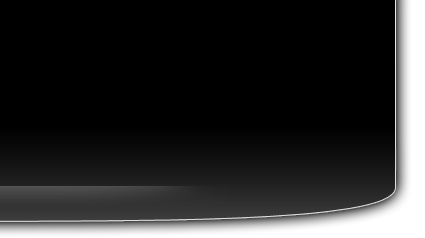
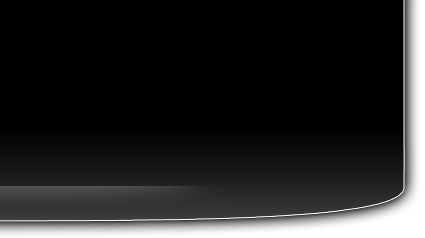
image fixes

diff --git a/public/index.css b/public/index.css
@@ -16,8 +16,8 @@ body
 #close
 {
 	position: fixed;
-	right: 40px;
-	top: 25px;
+	right: 30px;
+	top: 30px;
 	height: 15px;
 	width: 15px;
 	text-shadow: rgb(0, 0, 0) 1px 1px 5px;
@@ -36,7 +36,7 @@ html
 #mediaInformation
 {
 	position: fixed;
-	top: 23px;
+	top: 28px;
 	left: 100px;
 	height: 18px;
 	right: 100px;
@@ -477,7 +477,7 @@ input[type=password]:focus {
 	position: fixed;
 	top: 0px;
 	right: 0px;
-	width: 425px;
+	width: 420px;
 	height: 360px;
 	
 	background-image: url('images/player/ne.png');
@@ -488,7 +488,7 @@ input[type=password]:focus {
 	position: fixed;
 	top: 0px;
 	left: 0px;	
-	width: 424px;
+	width: 420px;
 	height: 361px;
 	
 	background-image: url('images/player/nw.png');
@@ -499,7 +499,7 @@ input[type=password]:focus {
 	position: fixed;
 	bottom: 3px;
 	right: 0px;
-	width: 425px;
+	width: 420px;
 	height: 235px;
 	
 	background-image: url('images/player/se.png');
@@ -510,7 +510,7 @@ input[type=password]:focus {
 	position: fixed;
 	bottom: 0px;
 	left: 1px;
-	width: 425px;
+	width: 419px;
 	height: 237px;
 	
 	background-image: url('images/player/sw.png');

diff --git a/public/index.html b/public/index.html
@@ -19,10 +19,10 @@
 
 		<div id="playerBody">
 			<div id="background"></div>
-			<div id="n"></div>
-			<div id="e"></div>
-			<div id="s"></div>
-			<div id="w"></div>
+			<!-- div id="n"></div -->
+			<!-- div id="e"></div -->
+			<!-- div id="s"></div -->
+			<!-- div id="w"></div -->
 			<div id="ne"></div>
 			<div id="se"></div>
 			<div id="nw"></div>
@@ -50,11 +50,9 @@
 					or l:player[mode=play] then effect[appear]">
 				<div id="progressBar">
 					<div id="progressBarHandle" 
-						set="behavior[draggable, constraint=horizontal"
-						on="mouseup then script[alert($progressBarHandle.offsetLeft)]
-							or mousedown then script[alert($progressBarHandle.offsetLeft)]
-							or drag then script[alert('x')]
-							">
+						set="behavior[draggable, constraint=horizontal]"
+						on="drag then script[Player.hConstraint(0, 100)]
+								or dragend then script[alert('x')]">
 						<div id="handlePointer"></div>
 					</div>
 				</div>

diff --git a/public/index.js b/public/index.js
@@ -54,6 +54,16 @@ ti.ready(function() {
 		bookmarkData: {},
 		updateFlag: true,
 		
+		horizontalConstraint: function(left, right)
+		{
+			alert(event.clientX + 'left');
+		},
+		
+		cueVideo: function()
+		{
+			
+		},
+	
 		getBookmarkData: function()
 		{
 			var rs = Player.db.execute(Player.SQL.getBookmarks, ["%" + $("searchInput").value + "%"]);

diff --git a/public/javascripts/appcelerator-debug.js b/public/javascripts/appcelerator-debug.js
@@ -18332,7 +18332,7 @@ function(element,condition,action,elseAction,delay,ifCond)
 			{
 				Appcelerator.Compiler.executeAfter(actionFunc,delay,{id:id});
 			}
-		;}
+		};
 		Draggables.addObserver(observer);
 		
 		Appcelerator.Compiler.addTrash(element, function()
